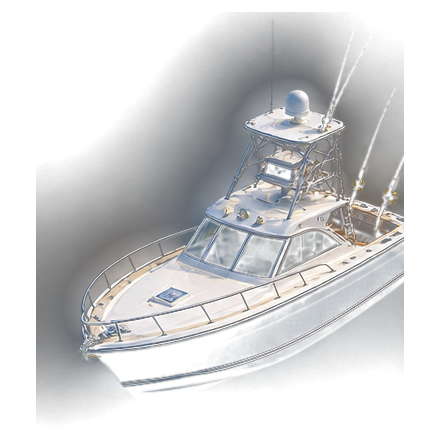
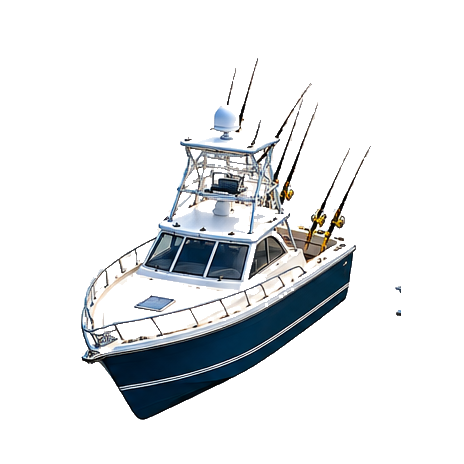
Add files via upload

diff --git a/index.html b/index.html
@@ -4,9 +4,9 @@
 <meta charset="utf-8">
 <meta name="viewport" content="width=device-width,initial-scale=1,viewport-fit=cover,user-scalable=no">
 <meta name="theme-color" content="#0b4f69">
-<meta name="app-version" content="2.5.0">
+<meta name="app-version" content="2.9.0">
 <meta http-equiv="Cache-Control" content="no-cache, no-store, must-revalidate">
-<title>Fishing Adventures V2.5</title>
+<title>Fishing Adventures V2.9</title>
 <style>
 *{box-sizing:border-box;-webkit-tap-highlight-color:transparent;user-select:none}html,body{margin:0;width:100%;height:100%;overflow:hidden;font-family:system-ui,-apple-system,BlinkMacSystemFont,"Segoe UI",sans-serif;background:#0b5870;color:#fff}button{font:inherit;color:inherit;border:0;touch-action:none}#app,.scene{position:absolute;inset:0;overflow:hidden}.scene{display:none}.scene.active{display:block}
 #boatScene{background:linear-gradient(#66b8c8 0 8%,#177394 8% 100%)}#boatScene:before{content:"";position:absolute;inset:8% 0 0;background:repeating-linear-gradient(165deg,rgba(255,255,255,.11) 0 2px,transparent 2px 22px),repeating-linear-gradient(15deg,rgba(255,255,255,.05) 0 1px,transparent 1px 30px)}
@@ -122,7 +122,7 @@ clip-path:polygon(3% 10%,97% 10%,97% 96%,3% 96%)}
 .oceanTexture{position:absolute;inset:-42%;transform:rotateX(55deg) scale(1.55);transform-origin:center top;background:repeating-radial-gradient(ellipse at 22% 31%,rgba(239,252,255,.42) 0 1px,transparent 2px 19px),repeating-linear-gradient(169deg,transparent 0 17px,rgba(201,242,250,.28) 18px 21px,transparent 22px 48px),linear-gradient(155deg,#1683a4,#075a7a 52%,#033b5c);background-size:165px 66px,245px 90px,100% 100%;animation:oceanV23 5.4s linear infinite}
 .oceanTexture:after{content:"";position:absolute;inset:0;background:repeating-linear-gradient(11deg,transparent 0 34px,rgba(255,255,255,.18) 35px 38px,transparent 39px 76px);background-size:315px 108px;animation:oceanCrossV23 8.2s linear infinite}
 @keyframes oceanV23{to{background-position:165px 66px,-245px 90px,0 0}}@keyframes oceanCrossV23{to{background-position:-315px 108px}}
-#boat{display:none!important}.playBoat{position:absolute;left:50%;top:57%;width:clamp(125px,16vw,235px);aspect-ratio:1;z-index:12;filter:drop-shadow(0 14px 9px rgba(0,0,0,.42));will-change:transform}.playBoat img{width:100%;height:100%;object-fit:contain;display:block;pointer-events:none}
+#boat{display:none!important}.playBoat{position:absolute;left:50%;top:57%;width:clamp(155px,19vw,285px);aspect-ratio:1;z-index:12;filter:drop-shadow(0 14px 9px rgba(0,0,0,.42));will-change:transform}.playBoat img{width:100%;height:100%;object-fit:contain;display:block;pointer-events:none}
 .boatWake{position:absolute;left:50%;top:62%;width:50px;height:0;z-index:10;transform:translateX(-50%);opacity:0;background:linear-gradient(to bottom,rgba(255,255,255,.95),rgba(218,246,255,.52) 38%,transparent);clip-path:polygon(38% 0,62% 0,100% 100%,0 100%);filter:blur(2px);transition:.15s}#boatScene.movingBoat .boatWake{height:205px;opacity:.9}
 #boatScene>.hud,#boatScene>.controls,#boatScene>#fishBtn,#boatScene>.version,#boatScene>.speed{z-index:30}
 
@@ -130,7 +130,7 @@ clip-path:polygon(3% 10%,97% 10%,97% 96%,3% 96%)}
 </head>
 <body>
 <div id="app">
-<section id="boatScene" class="scene active"><div class="oceanWorld" aria-hidden="true"><div class="oceanTexture" id="oceanTexture"></div></div><div class="boatWake"></div><div class="playBoat" id="playBoat"><img id="playBoatImg" src="boat_n.png?v=2.5.0" alt="Offshore-Angelboot"></div>
+<section id="boatScene" class="scene active"><div class="oceanWorld" aria-hidden="true"><div class="oceanTexture" id="oceanTexture"></div></div><div class="boatWake"></div><div class="playBoat" id="playBoat"><img id="playBoatImg" src="boat_n.png?v=2.9.0" alt="Offshore-Angelboot"></div>
   <div class="simWorld" id="simWorld" aria-hidden="true">
     <img class="simOceanPhoto" id="simOceanPhoto" src="simulator_ocean_v22.jpg?v=2.2.0" alt="">
     <div class="simWave"></div><div class="simWave w2"></div><div class="simSpray"></div>
@@ -138,7 +138,7 @@ clip-path:polygon(3% 10%,97% 10%,97% 96%,3% 96%)}
   <div class="hud" style="left:50%;top:16px;transform:translateX(-50%);font-weight:800;letter-spacing:.08em">OFFSHORE SIMULATOR</div>
   <div class="waveFoam" aria-hidden="true"><i></i><i></i><i></i><i></i><i></i></div>
   <div id="goal" class="hud"><div class="label">FREIE FAHRT</div><strong>Fahr, wohin du möchtest</strong><div id="goalText">Zum Angeln anhalten.</div></div>
-  <div class="hud version">V2.5</div>
+  <div class="hud version">V2.9</div>
   <div id="boat"><div class="wake"></div><img class="realBoat" src="offshore_boat_v20.png?v=2.0.0" alt="Isometrisches Offshore-Angelboot"></div>
   <div class="controls steer"><button id="leftBtn" class="ctrl">←</button><button id="rightBtn" class="ctrl">→</button></div>
   <div class="controls pedals"><button id="gasBtn" class="ctrl gas">G</button><button id="brakeBtn" class="ctrl brake">B</button></div>
@@ -146,7 +146,7 @@ clip-path:polygon(3% 10%,97% 10%,97% 96%,3% 96%)}
   <button id="fishBtn" class="hidden">🎣 Hier angeln</button>
 </section>
 <section id="fishingScene" class="scene">
-  <div class="hud version">V2.5</div>
+  <div class="hud version">V2.9</div>
   <div class="deckIso"><div class="console"></div><div class="cooler"></div><div class="rods"></div><div class="motor2"></div></div>
   <div id="player" class="player"><div class="head"></div><div class="body"></div><div class="leg l"></div><div class="leg r"></div><div class="shoe l"></div><div class="shoe r"></div></div>
   <div id="joystick" class="joy"><div id="stick" class="stick"></div></div>
@@ -169,6 +169,8 @@ const held={left:false,right:false,gas:false,brake:false},state={x:.38,y:.67,ang
 const rodHeld={up:false,down:false,left:false,right:false},rodState={x:.74,y:.64};let catchCount=0;
 function hold(el,key){const on=e=>{e.preventDefault();held[key]=true;el.classList.add('pressed');try{el.setPointerCapture(e.pointerId)}catch(_){}};const off=e=>{e.preventDefault();held[key]=false;el.classList.remove('pressed')};el.addEventListener('pointerdown',on);['pointerup','pointercancel','lostpointercapture'].forEach(n=>el.addEventListener(n,off));}
 hold(q('leftBtn'),'left');hold(q('rightBtn'),'right');hold(q('gasBtn'),'gas');hold(q('brakeBtn'),'brake');
+q('leftBtn').addEventListener('click',()=>{state.angle-=45;});
+q('rightBtn').addEventListener('click',()=>{state.angle+=45;});
 function rodHold(el,key){const on=e=>{e.preventDefault();rodHeld[key]=true;el.classList.add('pressed');try{el.setPointerCapture(e.pointerId)}catch(_){}};const off=e=>{e.preventDefault();rodHeld[key]=false;el.classList.remove('pressed')};el.addEventListener('pointerdown',on);['pointerup','pointercancel','lostpointercapture'].forEach(n=>el.addEventListener(n,off));}
 rodHold(q('rodUp'),'up');rodHold(q('rodDown'),'down');rodHold(q('rodLeft'),'left');rodHold(q('rodRight'),'right');
 const bobber=q('bobber'),rodLine=q('rodLine'),fishLayer=q('fishLayer'),catchHud=q('catchHud'),catchCountEl=q('catchCount'),fishCountdown=q('fishCountdown');
@@ -189,7 +191,7 @@ function resetJoy(){joy.active=false;joy.id=null;joy.x=joy.y=0;stick.style.trans
 joystick.addEventListener('pointerdown',e=>{e.preventDefault();joy.active=true;joy.id=e.pointerId;try{joystick.setPointerCapture(e.pointerId)}catch(_){}setJoy(e.clientX,e.clientY)});joystick.addEventListener('pointermove',e=>{if(joy.active&&e.pointerId===joy.id)setJoy(e.clientX,e.clientY)});joystick.addEventListener('pointerup',resetJoy);joystick.addEventListener('pointercancel',resetJoy);
 let last=performance.now();function loop(now){const dt=Math.min(.035,(now-last)/1000);last=now;if(boatScene.classList.contains('active')){if(held.gas)state.speed+=.30*dt;else state.speed-=.07*dt;if(held.brake)state.speed-=.65*dt;state.speed=Math.max(0,Math.min(.32,state.speed));const turn=(.35+state.speed*2.6)*dt;if(held.left)state.angle-=90*turn;if(held.right)state.angle+=90*turn;const r=state.angle*Math.PI/180;
 const normAngle=((state.angle%360)+360)%360,dirNames=['n','ne','e','se','s','sw','w','nw'],dirName=dirNames[Math.round(normAngle/45)%8];
-if(playBoatImg.dataset.dir!==dirName){playBoatImg.src=`boat_${dirName}.png?v=2.5.0`;playBoatImg.dataset.dir=dirName;}
+if(playBoatImg.dataset.dir!==dirName){playBoatImg.src=`boat_${dirName}.png?v=2.9.0`;playBoatImg.dataset.dir=dirName;}
 const boatBob=Math.sin(now/420)*(1.4+state.speed*7),boatLean=(held.left?-4.5:0)+(held.right?4.5:0)+Math.sin(now/950)*.7;
 playBoat.style.transform=`translate(-50%,-50%) translateY(${boatBob}px) rotate(${boatLean}deg)`;
 boatScene.classList.toggle('movingBoat',state.speed>.025);
